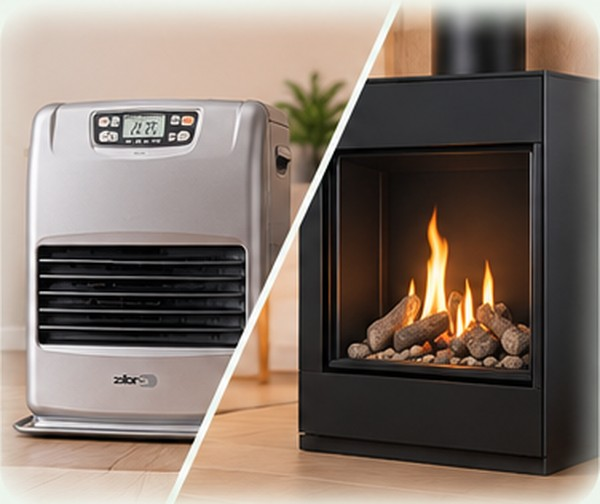
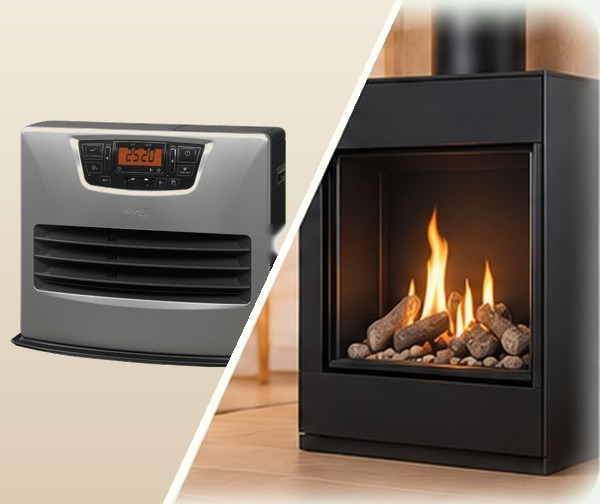
Add files via upload

diff --git a/index.html b/index.html
@@ -224,7 +224,7 @@ header{margin-bottom:2px}h1{font-size:22px;line-height:1.1}header small{font-siz
 #today .saving-bottom .saving-number{font-size:16px!important;color:#167747!important}
 #today #splitPlan .plan-controls .row small{font-size:10px;white-space:nowrap}
 @media(max-width:380px){#today .saving-prices{width:69%}#today .saving-bottom{width:73%;gap:9px!important}#today .saving-prices span{font-size:9px!important}#today .saving-prices b{font-size:11px!important}#today #splitPlan .plan-controls .row small{font-size:9px}}
-</style><style>/* v1.9.16 */
+</style><style>/* v1.9.18 */
 #today #comparison.fresh .cost-choice{border:1px solid #d6e5d9!important;background:#f3f8f2!important}
 #today #comparison.fresh .cost-choice .choice-price{color:#292f2b!important}
 #today #comparison.fresh .cost-choice.best-value{border:2px solid #31945e!important;background:#eff8f0!important;padding:2px 1px 3px!important}
@@ -237,7 +237,16 @@ header{margin-bottom:2px}h1{font-size:22px;line-height:1.1}header small{font-siz
 #today .saving-bottom span{font-size:11px!important;white-space:nowrap}
 #today .saving-bottom .saving-number{font-size:15px!important}
 @media(max-width:390px){#today .saving-prices{width:61%!important}#today .saving-prices span{font-size:8px!important}#today .saving-prices b{font-size:11px!important}#today .saving-bottom{width:65%!important;gap:5px!important}#today .saving-bottom span{font-size:10px!important}#today .saving-bottom .saving-number{font-size:14px!important}}
-</style></head><body><main class="app"><header><div><h1>🔥 HeatWise</h1><small>Stay warm. Spend less.</small></div><span class="pill">Privé • v1.9.16</span></header>
+</style><style>/* v1.9.18: leesbare petroleumprijzen en voordeel */
+#today .saving-prices{width:49%!important;gap:3px!important}
+#today .saving-prices>div{min-width:0!important}
+#today .saving-prices span{font-size:9px!important;letter-spacing:-.25px}
+#today .saving-prices b{font-size:12px!important;letter-spacing:-.3px}
+#today .saving-bottom{width:57%!important;gap:7px!important}
+#today .saving-bottom .saving-number{font-size:19px!important;font-weight:850!important}
+#today .cost-choice .scene-photo[src$="zibro-lc150.png"]{object-fit:contain!important;background:#f5f8f3!important}
+@media(max-width:390px){#today .saving-prices{width:52%!important;gap:2px!important}#today .saving-prices span{font-size:8px!important}#today .saving-prices b{font-size:11px!important}#today .saving-bottom{width:62%!important;gap:4px!important}#today .saving-bottom .saving-number{font-size:17px!important}}
+</style></head><body><main class="app"><header><div><h1>🔥 HeatWise</h1><small>Stay warm. Spend less.</small></div><span class="pill">Privé • v1.9.18</span></header>
 <section id="today"><div class="card"><h2>🏠 Vandaag <span class="today-version">· kostenvergelijking</span></h2><div class="grid"><div><label>Buiten (°C)</label><input id="outside" type="number" value="0" step="1"></div><div><label>Binnen (°C)</label><input id="inside" type="number" value="16" step="0.5"></div></div><details class="gas-details"><summary>ⓘ Hoe is mijn gasprijs berekend?</summary><p id="gasFormulaInfo" class="tiny" aria-live="polite"></p></details><div class="grid"><div><label>Gewenst binnen (°C)</label><input id="target" type="number" value="21" step="0.5"></div><div><label>Verwarmingsduur (uur)</label><input id="duration" type="number" value="4" min="0.5" step="0.5"></div></div><div class="grid"><div><label>Gasradar (ct/kWh)</label><input id="spot" type="number" value="8.8" step="0.1"></div><div><label>Mijn gasprijs (ct/kWh)</label><input id="contractGas" type="number" value="14" min="0" step="0.01" readonly aria-label="Automatisch berekende geschatte totale gasprijs"></div></div></div><div id="splitPlan"><div class="row" style="margin-bottom:4px"><label for="weatherProfile" style="margin:0">Weerprofiel</label><select id="weatherProfile" style="width:auto;min-height:29px;padding:3px 6px;font-size:13px"><option value="mild">🌤 Zacht</option><option value="cold">❄ Koud</option><option value="verycold">🥶 Heel koud</option><option value="custom">✏ Aangepast</option></select></div><div class="tiny hidden" id="profileHint">Voorlopige standen, niet automatisch gekoppeld aan buitentemperatuur.</div><div class="plan-main"><div class="plan-controls"><div class="row"><strong>Mijn combinatie</strong></div><label for="zSplit">Schuif om de uren te verdelen</label><div class="bar" aria-hidden="true"><span id="zBar" style="width:25%"></span><span></span></div><input id="zSplit" type="range" min="0" max="4" value="1" step="0.5" aria-label="Uren Zibro; resterende uren Bellfires"><div class="row"><small>Zibro: <b id="zTime">1 uur</b></small><small>Bellfires Smart Bell 75/80: <b id="gTime">3 uur</b></small></div></div><button id="recalculate" type="button" class="btn calcbtn">↻ Bereken</button></div><div id="calcPending" class="calc-pending hidden">Instellingen gewijzigd — klik op Bereken.</div></div><div id="comparison"></div><div class="card savings-card" aria-label="Mijn petroleumvoordeel"><div class="saving-head"><span class="saving-title">Mijn petroleumvoordeel</span></div><div class="saving-prices"><div><span>Mijn aankoopprijs</span><b id="savingPurchase">€ 1,20/L</b></div><div><span>Huidige prijs</span><b id="savingCurrent">€ 2,00/L</b></div></div><div class="saving-bottom"><span>Voordeel tank</span><strong id="tankSaving" class="saving-number">€ 5,60</strong></div></div></section>
 <section id="heating" class="hidden"><details id="phaseSettings" class="card"><summary>⚙ Standen en opwarmfases instellen</summary><p class="tiny">Kies per toestel hoe lang de hoge stand duurt. De rest van de gekozen toestelduur is de lage stand.</p><div class="panel"><strong>⚫ Zibro</strong><div class="phasegrid"><div><label>Opwarmen (°C)</label><select id="zHighTemp"><option>22</option><option selected>23</option><option>24</option><option>25</option></select></div><div><label>Onderhouden (°C)</label><select id="zLowTemp"><option>19</option><option selected>20</option><option>21</option><option>22</option></select></div></div><label>Hoge stand (uur, binnen Zibro-duur)</label><input id="zHighHours" type="number" min="0" max="10" step="0.5" value="0.5"></div><div class="panel"><strong>🟡 Bellfires</strong><div class="phasegrid"><div><label>Opwarmen</label><select id="gHighBurners"><option value="2" selected>2 branders</option><option value="1">1 brander</option></select></div><div><label>Onderhouden</label><select id="gLowBurners"><option value="1" selected>1 brander</option><option value="2">2 branders</option></select></div></div><label>Hoge stand (uur, binnen Bellfires-duur)</label><input id="gHighHours" type="number" min="0" max="10" step="0.5" value="0.5"></div><p class="tiny">De Zibro moduleert automatisch: een thermostaatinstelling van 23°C betekent niet voortdurend hetzelfde verbruik. De berekening blijft een schatting. De Zibro-thermostaatstand is geen vaste vermogensstand. Je bedient de Bellfires handmatig met 1 of 2 branders, zonder thermostaatmodus. De vermogens zijn indicatief tot we voldoende P1-metingen hebben.</p></details><div class="card"><h2>🛢 Petroleumprijzen</h2><div class="grid"><div><label for="purchasePriceToday">Mijn aankoopprijs (€/L)</label><input id="purchasePriceToday" type="number" min="0" step="0.01" value="1.20"></div><div><label for="currentPetrolPrice">Huidige prijs (€/L)</label><input id="currentPetrolPrice" type="number" min="0" step="0.01" value="2.00"></div></div><p class="tiny" id="savingNote">Prijsverschil voor 7 liter. Huidige prijs zelf invullen; geen live marktprijs.</p></div><div class="card"><h2>⚙ Gasprijsinstellingen</h2><details style="margin:8px 0"><summary>⚙ Schatting netkosten en heffingen</summary><label for="gasExtra">Voorlopige opslag (cent/kWh)</label><input id="gasExtra" type="number" value="3.40" min="0" step="0.01"><p class="tiny">Standaard 3,40 ct/kWh: ruwe benadering op basis van de tariefkaart februari 2025, Fluvius Zenne-Dijle T1, heffingen en transport. Dit is GEEN bevestigd nettarief voor 2026. Pas aan wanneer de actuele tarieven bekend zijn. Vaste jaarlijkse kosten zijn niet inbegrepen.</p></details><p class="tiny">De geschatte totale gasprijs op Vandaag wordt automatisch herberekend.</p></div><div class="card"><h2>🔥 Verwarmingsbeurt</h2><p class="muted">Registreer na het verwarmen de werkelijke duur en temperatuur. De teststart bewaar je bij Registratie.</p><label>Datum</label><input id="sessionDate" type="date"><div class="grid"><div><label>Binnen bij start (°C)</label><input id="startTemp" type="number" value="16" step="0.5"></div><div><label>Binnen bij einde (°C)</label><input id="endTemp" type="number" value="21" step="0.5"></div></div><label>Zibro brandtijd (minuten)</label><input id="zMinutes" type="number" min="0" value="90"><label>Zibro thermostaat (°C)</label><input id="zThermostat" type="number" value="21" step="1"><label>Bellfires brandtijd (minuten)</label><input id="gMinutes" type="number" min="0" value="0"><label>Bellfires stand</label><select id="burners"><option value="0">Niet gebruikt</option><option value="1">1 brander</option><option value="2">2 branders</option><option value="mixed">Afwisselend</option></select><button class="btn wide" id="saveSession">Bewaar verwarmingsbeurt</button><p class="muted">Zibro-kosten zijn voorlopig geschat. Na een volledige tankcyclus kennen we je gemiddelde werkelijke verbruik.</p></div></section>
 <section id="register" class="hidden"><div class="card"><h2>🧪 Nieuwe verwarmingstest</h2><p class="muted">Vul op Vandaag de actuele waarden in en druk op Bereken. Bewaar daarna hier de startgegevens en de voorspelling. Dit is een momentopname.</p><label>Soort dag</label><select id="daytype"><option value="office">Na kantoor</option><option value="home">Thuiswerk</option><option value="sunday">Zondagavond</option><option value="other">Andere dag</option></select><label>Starttijd</label><input id="testTime" type="datetime-local"><label>P1-gasmeter bij start (m³, optioneel)</label><input id="testP1" type="number" step="0.001" placeholder="Bijvoorbeeld 1250.4"><button class="btn wide" id="saveTest">📌 Bewaar teststart en voorspelling</button><p class="tiny" id="testInfo"></p></div><div class="card"><h2>⛽ P1-gasregistratie</h2><p class="muted">Je gebruikt gas alleen voor verwarming. Lees de meter voldoende later uit vanwege mogelijke vertraging.</p><label>Bij welke test of verwarmingsbeurt?</label><select id="gasSession"></select><label>Soort meterstanden</label><select id="gasMode"><option value="day">Dagtotaal gas (m³)</option><option value="meter">Cumulatieve gasmeterstand (m³)</option></select><p class="tiny" id="gasInfo">Vul twee dagtotalen van dezelfde dag in. Het verschil is het gasverbruik van deze test.</p><div class="grid"><div><label>Beginwaarde (m³)</label><input id="gasBegin" type="number" step="0.001" placeholder="bv. 1250.4"></div><div><label>Eindwaarde (m³)</label><input id="gasEnd" type="number" step="0.001" placeholder="bv. 1250.8"></div></div><button class="btn wide" id="saveGas">Bewaar gasmeting</button></div><div class="card"><h2>🛢 Zibro-tank</h2><div class="tankrow"><span>Geregistreerde status</span><span class="tanktag" id="tankStatus">Nog niet geregistreerd</span></div><p class="muted">De status komt van jouw registratie, niet van een sensor. Je vult pas volledig bij na de waarschuwing van de Zibro.</p><button class="btn alt wide" id="tankWarning">⚠ Zibro vraagt petroleum</button><p id="tankWarningInfo" class="tiny"></p><label>Werkelijk bijgevulde liters</label><input id="refillLitres" type="number" value="5" min="0.1" step="0.1"><button class="btn wide" id="saveRefill">✓ Tank volledig gevuld — registreer</button><p id="tankInfo" class="muted"></p><div class="warning">De eerste volledige vulling start de meting. Alleen een volgende vulling na een geregistreerde tankcyclus telt mee als verbruik. De waarschuwing betekent niet dat de tank letterlijk leeg is.</div></div></section>
@@ -308,7 +317,7 @@ function gasPrice(){return num('contractGas')/100}function calculate(){
  const splitRuntimeCost=zMix+gMixCost;
  window.lastPlanCost=splitRuntimeCost;
  const fmtShort=h=>h.toLocaleString('nl-BE',{maximumFractionDigits:1})+'u';
- const zIcon='<img class="scene-photo" src="./zibro-scene.jpg" alt="Zibro LC-150 in woonkamer (ontwerpvisualisatie)" loading="eager">';
+ const zIcon='<img class="scene-photo" src="./zibro-lc150.png" alt="Zibro LC-150, mijn eigen model" loading="eager">';
  const gIcon='<img class="scene-photo" src="./bellfires-scene.jpg" alt="Bellfires Smart Bell 75/80 (ontwerpvisualisatie)" loading="eager">';
  const items=[
  {label:'Zibro',sub:fmtShort(hours)+' petroleum',icon:zIcon,cost:zOnly},

diff --git a/sw.js b/sw.js
@@ -1,1 +1,1 @@
-const CACHE='heatwise-cache-v1916';const ASSETS=['./','./index.html','./manifest.webmanifest','./icon.svg','./zibro-lc150.png','./bellfires-reference.jpg','./tankstation.jpg','./zibro-scene.jpg','./mix-scene.jpg','./bellfires-scene.jpg','./tankstation-scene.jpg','./tankstation-hero.jpg','./tankstation-fiat500x.jpg'];self.addEventListener('install',e=>{self.skipWaiting();e.waitUntil(caches.open(CACHE).then(c=>c.addAll(ASSETS)))});self.addEventListener('activate',e=>e.waitUntil(Promise.all([self.clients.claim(),caches.keys().then(keys=>Promise.all(keys.filter(k=>k.startsWith('heatwise-')&&k!==CACHE).map(k=>caches.delete(k))))])));self.addEventListener('fetch',e=>{if(e.request.method!=='GET')return;e.respondWith(fetch(e.request).then(r=>{if(r.ok&&new URL(e.request.url).origin===self.location.origin){const copy=r.clone();caches.open(CACHE).then(c=>c.put(e.request,copy))}return r}).catch(()=>caches.match(e.request)))});
+const CACHE='heatwise-cache-v1918';const ASSETS=['./','./index.html','./manifest.webmanifest','./icon.svg','./zibro-lc150.png','./bellfires-reference.jpg','./tankstation.jpg','./zibro-scene.jpg','./mix-scene.jpg','./bellfires-scene.jpg','./tankstation-scene.jpg','./tankstation-hero.jpg','./tankstation-fiat500x.jpg'];self.addEventListener('install',e=>{self.skipWaiting();e.waitUntil(caches.open(CACHE).then(c=>c.addAll(ASSETS)))});self.addEventListener('activate',e=>e.waitUntil(Promise.all([self.clients.claim(),caches.keys().then(keys=>Promise.all(keys.filter(k=>k.startsWith('heatwise-')&&k!==CACHE).map(k=>caches.delete(k))))])));self.addEventListener('fetch',e=>{if(e.request.method!=='GET')return;e.respondWith(fetch(e.request).then(r=>{if(r.ok&&new URL(e.request.url).origin===self.location.origin){const copy=r.clone();caches.open(CACHE).then(c=>c.put(e.request,copy))}return r}).catch(()=>caches.match(e.request)))});
